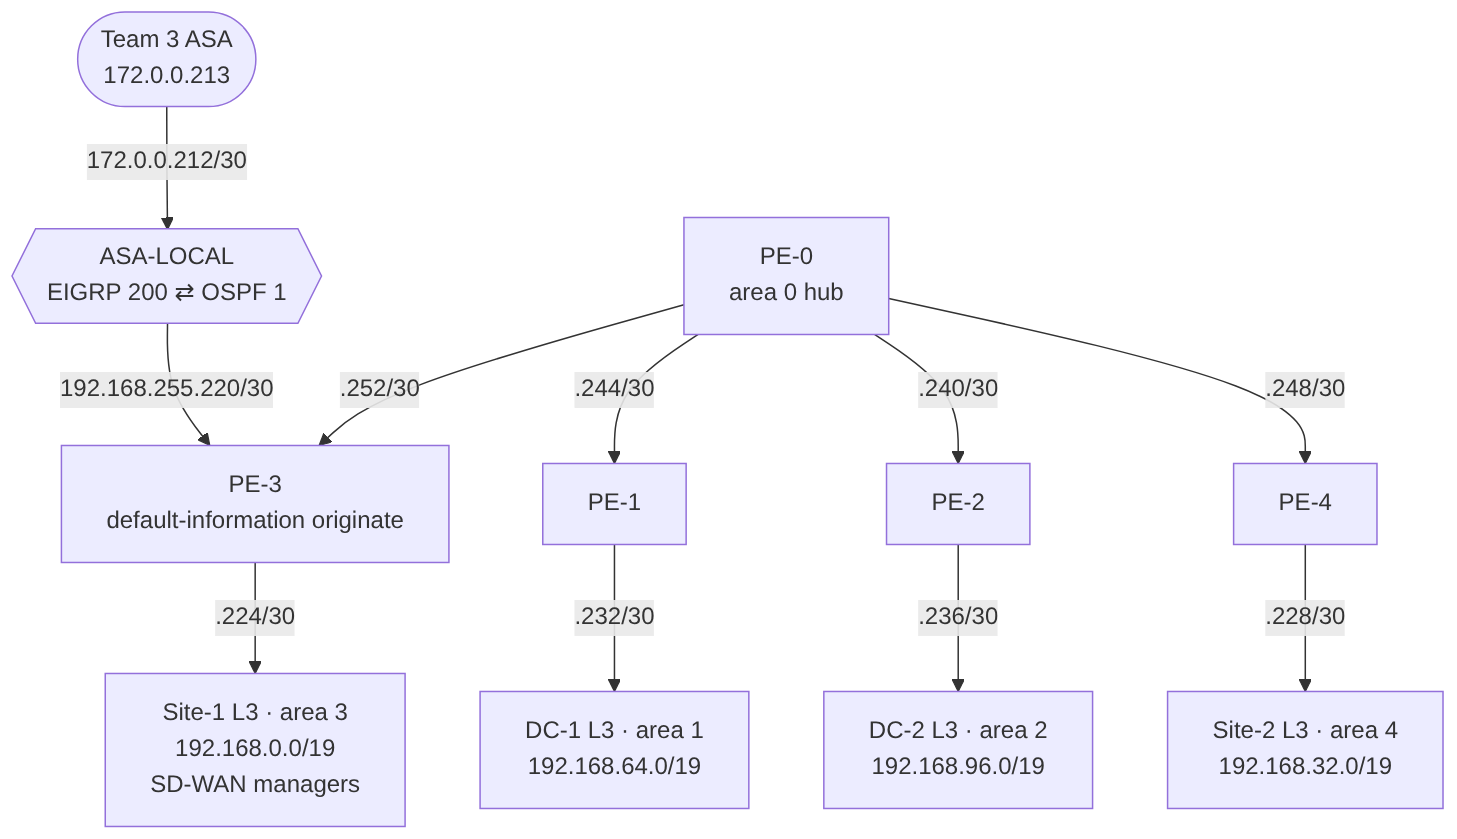
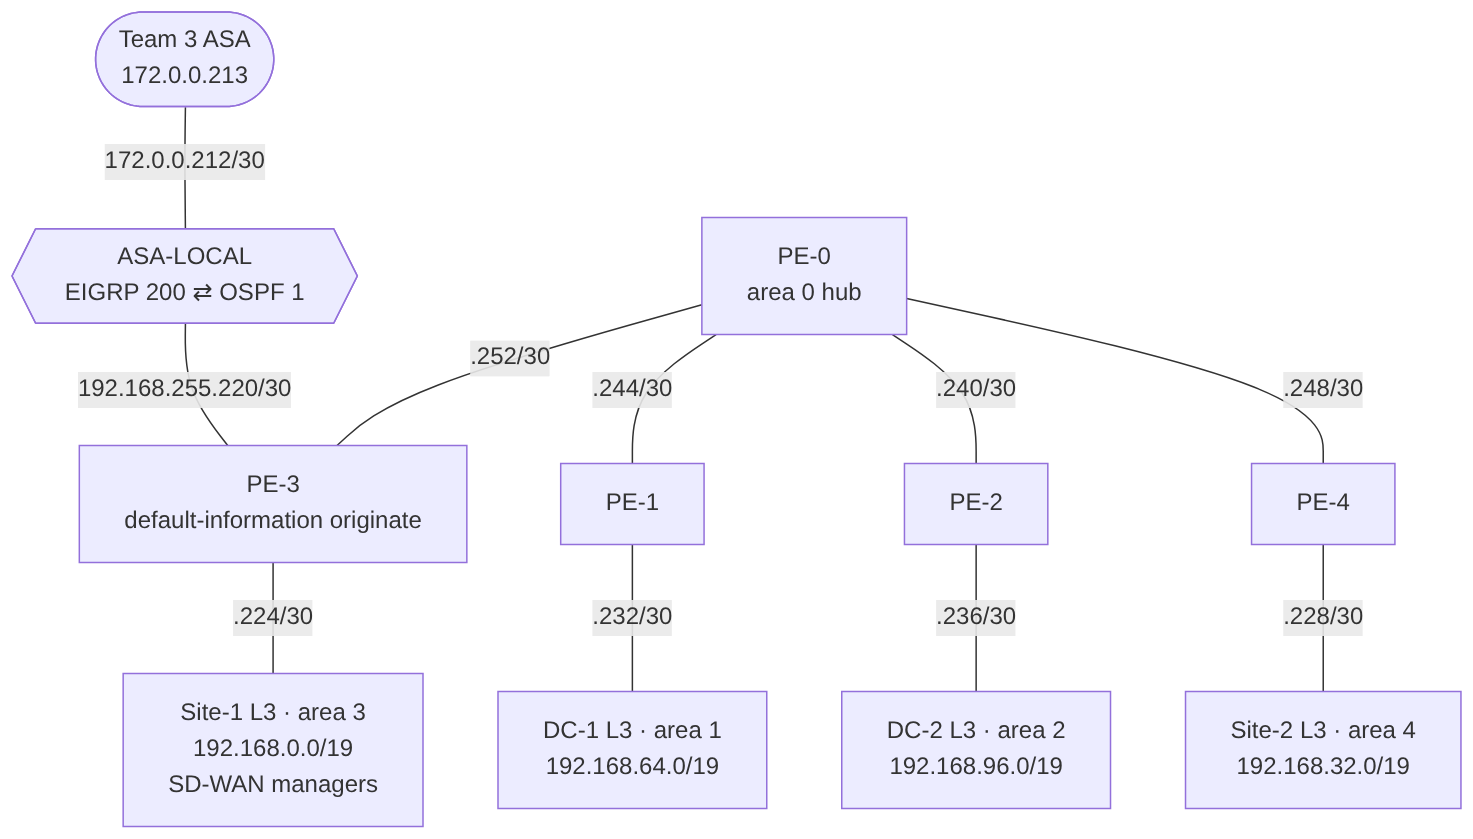
Simplify Project Lattice WAN diagram; re-render diagram PNGs
Redraw the WAN overview with one box per team and the hub's mesh collapsed
to a single core node, plus a legend for solid vs dashed links. Re-render
all diagram PNGs with a newer Mermaid; the old renderer drew undirected
links with arrowheads.

Claude-Session: https://claude.ai/code/session_01ARxaLgrT7S1dNfxyUtxHLm

diff --git a/README.md b/README.md
@@ -14,33 +14,48 @@ Five teams each built a different enterprise network on real Cisco gear, then jo
 
 ```mermaid
 flowchart TB
-    subgraph HUB["HUB · MPLS · area 0"]
-        P1["P1"] === P2["P2"]
-        P1 === P3["P3"]
-        P1 === P4["P4"]
-        P2 === P3
-        P2 === P4
-        P3 === P4
+    subgraph T1["Team 1 · 20.0.0.0/16"]
+        ER["EdgeR"]
+        EE["EdgeE"]
     end
 
-    T1R["Team 1 EdgeR<br/>RIP"]
-    T1E["Team 1 EdgeE<br/>EIGRP 1 ⇄ OSPF 7"]
-    T2["Team 2<br/>OSPF area 99"]
-    HASA{{"Hub ASA<br/>EIGRP 200 ⇄ OSPF 65535"}}
-    T3["Team 3 R4<br/>EIGRP 200"]
-    T3ASA{{"Team 3 ASA"}}
-    T4ASA{{"Team 4 ASA<br/>EIGRP 200 ⇄ OSPF 1"}}
-    T4["Team 4 PE-3<br/>OSPF"]
+    subgraph HUB["Hub · 8.8.0.0/16"]
+        P1["P1"]
+        CORE(("MPLS core<br/>P1–P4 full mesh<br/>OSPF 65535"))
+        P2["P2"]
+        P4["P4"]
+        HASA{{"Hub ASA<br/>OSPF ⇄ EIGRP"}}
+    end
 
-    P1 ---|"8.8.9.100/30 · RIP"| T1R
-    P1 ---|"8.8.9.104/30 · EIGRP 1"| T1E
-    P2 ---|"8.8.9.108/30 · area 99"| T2
-    P4 ---|"8.8.9.48/29 · OSPF"| HASA
-    HASA ---|"8.8.9.40/30 · EIGRP 200"| T3
-    T3 -.-|"EIGRP 200 mesh"| T3ASA
-    T3ASA ---|"172.0.0.212/30 · EIGRP 200"| T4ASA
-    T4ASA ---|"192.168.255.220/30 · area 3"| T4
+    subgraph T2["Team 2 · 10.0.0.0/16"]
+        T2ASA{{"ASA"}}
+    end
+
+    subgraph T3["Team 3 · 172.0.0.0/24"]
+        R4["R4"]
+        MESH["R1–R5 mesh<br/>+ 2 branch sites"]
+        T3ASA{{"ASA"}}
+    end
+
+    subgraph T4["Team 4 · 192.168.0.0/16"]
+        T4ASA{{"ASA<br/>EIGRP ⇄ OSPF"}}
+        PE["PE-0 … PE-4"]
+    end
+
+    ER ---|"RIP"| P1
+    EE ---|"EIGRP 1"| P1
+    P1 === CORE
+    P2 === CORE
+    P4 === CORE
+    P2 -.-|"OSPF area 99"| T2ASA
+    P4 ---|"OSPF"| HASA
+    HASA ---|"EIGRP 200"| R4
+    R4 --- MESH --- T3ASA
+    T3ASA ---|"EIGRP 200"| T4ASA
+    T4ASA --- PE
 ```
+
+Solid lines are links whose addresses match on both ends in the final saves. The dashed Team 2 link is the hub's port for Team 2, which doesn't match Team 2's final firewall save (see known issue T2-2). The hub's four switches are a full mesh, drawn in detail on the [hub page](hub/README.md).
 
 Team 4 has no link of its own into the hub; its traffic goes through Team 3's network and two ASAs. Team 3 was the transit path, and Team 4 was brought into the WAN that way on 11/04.
 
